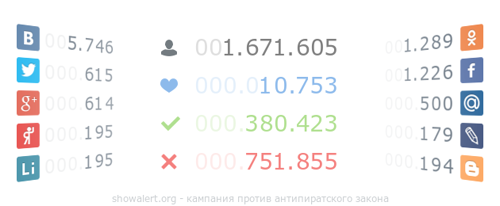
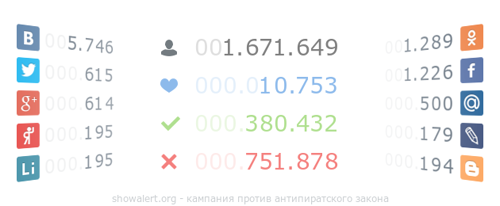
update statistics files for plugins

Changed region(s): [[0.6, 0.1748, 0.69, 0.2913], [0.6, 0.7282, 0.69, 0.8447], [0.6, 0.5825, 0.69, 0.6408]]

diff --git a/votes.js b/votes.js
@@ -1,1 +1,1 @@
-window.lk.votes(31516)
+window.lk.votes(31529)
